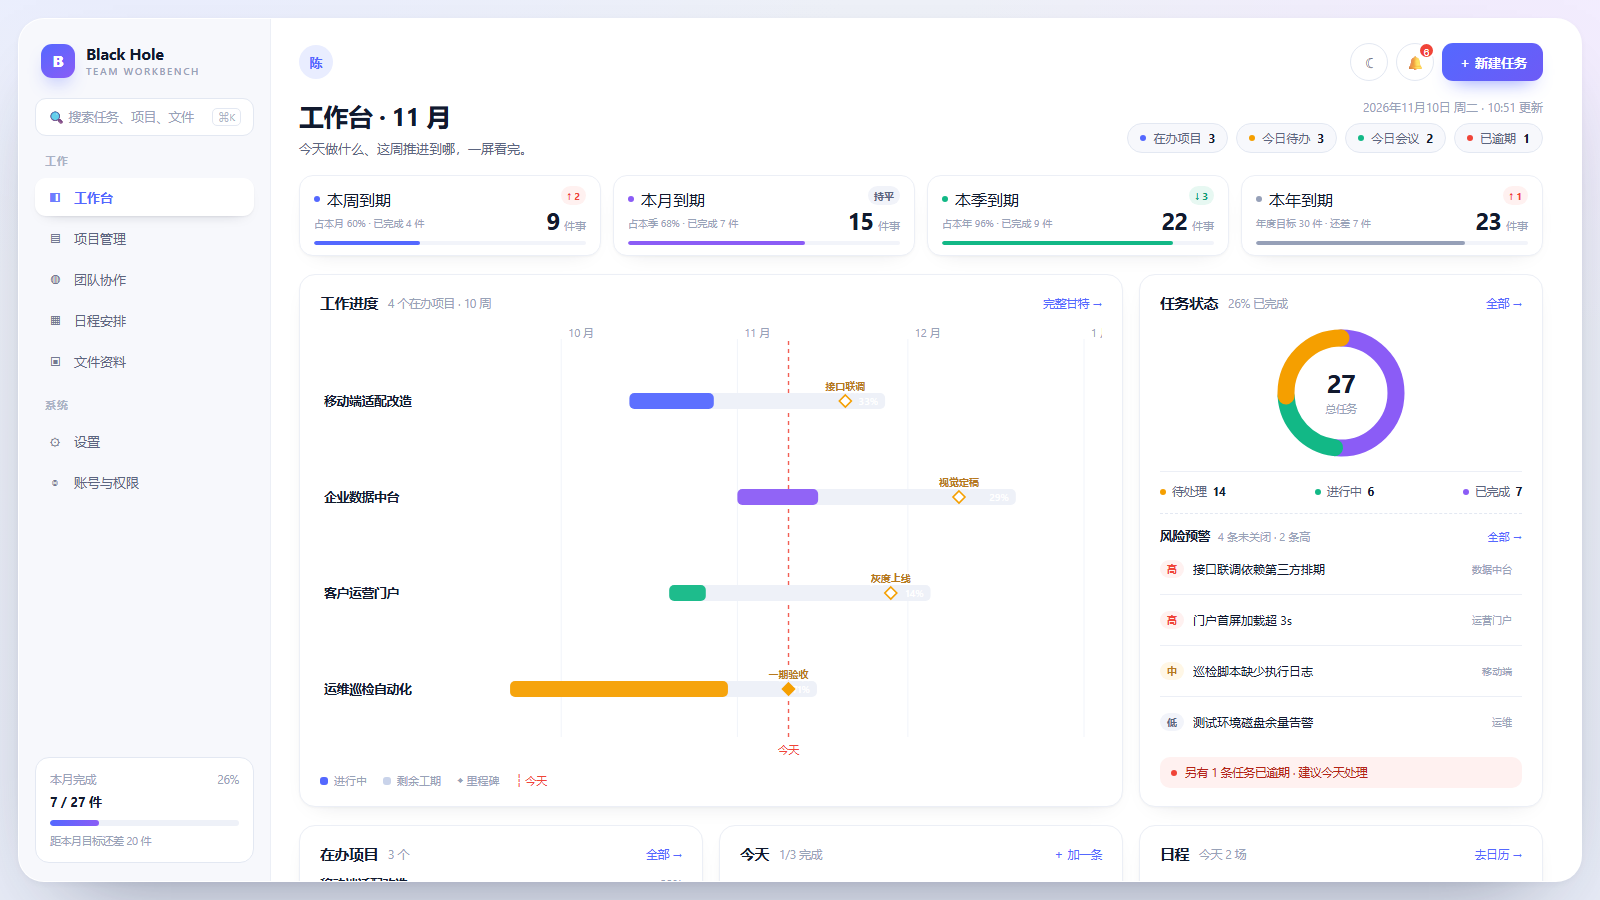
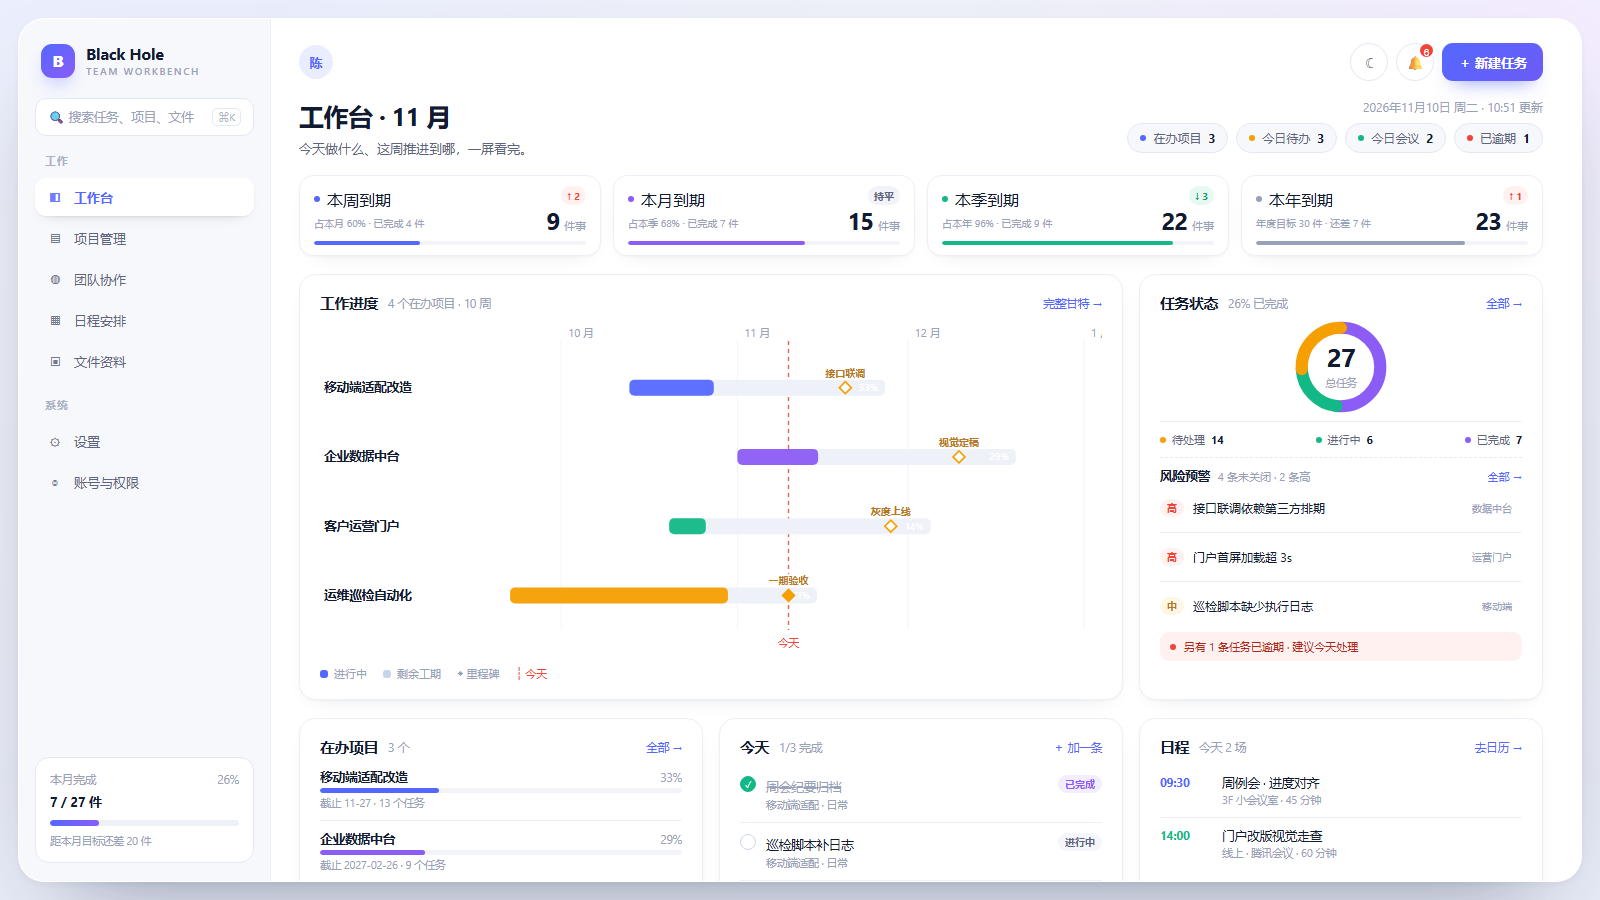
docs(demo): 回滚入口交换；甘特/状态两卡降高 20% 并加内滚动
- 回滚 0c0be93（四个胶囊移到标题下 + 随记/文件迁顶栏），恢复上一版布局
- 工作进度、任务状态两卡固定 426px（原 533，降 20%）
- 甘特：行高下限 66，4 行刚好放进可视区；容器 overflow-y:auto + hv-scroll，
  项目数变多时滚动，滚动条默认隐藏、hover 显示
- 风险预警：从状态卡整体滚动改为**风险列表自己滚**（max-height 140），
  环图缩到 100、间距收紧，其余内容不裁切
- 自检：gantt 333 不溢出（4 行完整+图例可见）/ risk 140 溢出不裁切 / 两卡等高 426

diff --git a/docs/demo/workbench-demo.html b/docs/demo/workbench-demo.html
@@ -114,9 +114,11 @@
   .kpi-cell .hint{font-size:10px;color:var(--muted);line-height:1.35}
 
   /* 甘特图 */
-  .gantt-card{grid-column:span 8;display:flex;flex-direction:column}
-  .gantt{position:relative;margin-top:8px;flex:1;min-height:280px}
+  .gantt-card{grid-column:span 8;display:flex;flex-direction:column;height:426px}
+  .gantt{position:relative;margin-top:8px;flex:1;min-height:0}
   .gantt svg{display:block;width:100%}
+  .status-body{flex:1;min-height:0;display:flex;flex-direction:column}
+  .status-body > *{flex:0 0 auto}
   .gantt .tip{position:absolute;pointer-events:none;background:#111a2e;color:#fff;padding:7px 10px;border-radius:9px;font-size:11px;
     transform:translate(-50%,-125%);opacity:0;transition:opacity .12s;white-space:nowrap;box-shadow:0 10px 24px -10px rgba(17,26,46,.6)}
   .gantt-legend{display:flex;align-items:center;gap:16px;margin-top:10px;font-size:11px;color:var(--muted)}
@@ -124,19 +126,19 @@
   .gantt-legend i{width:8px;height:8px;border-radius:3px}
 
   /* 任务状态 + 风险 */
-  .status-card{grid-column:span 4;display:flex;flex-direction:column}
-  .donut{position:relative;display:grid;place-items:center;margin:8px 0 2px}
+  .status-card{grid-column:span 4;display:flex;flex-direction:column;height:426px}
+  .donut{position:relative;display:grid;place-items:center;margin:2px 0 0}
   .donut .center{position:absolute;text-align:center}
   .donut .center b{display:block;font-size:26px;font-weight:760;line-height:1;letter-spacing:-.8px}
   .donut .center span{font-size:10.5px;color:var(--muted)}
-  .lg{display:flex;justify-content:space-between;padding-top:12px;border-top:1px solid var(--line);margin-top:6px}
-  .lg div{display:flex;align-items:center;gap:6px;font-size:11.5px;color:var(--text-2)}
+  .lg{display:flex;justify-content:space-between;padding-top:10px;border-top:1px solid var(--line);margin-top:4px}
+  .lg div{display:flex;align-items:center;gap:6px;font-size:11px;color:var(--text-2)}
   .lg b{color:var(--text);font-weight:700}
-  .subsec{display:flex;align-items:center;gap:8px;margin:14px 0 0;padding-top:14px;border-top:1px dashed var(--line-2)}
+  .subsec{display:flex;align-items:center;gap:8px;margin:10px 0 0;padding-top:10px;border-top:1px dashed var(--line-2)}
   .subsec h4{margin:0;font-size:12.5px;font-weight:700}
   .subsec .cnt{font-size:11px;color:var(--muted)}
   .subsec .more{margin-left:auto;font-size:11px;color:var(--brand);text-decoration:none}
-  .rm{display:grid;grid-template-columns:auto minmax(0,1fr) auto;gap:9px;align-items:center;padding:8px 0}
+  .rm{display:grid;grid-template-columns:auto minmax(0,1fr) auto;gap:9px;align-items:center;padding:7px 0}
   .rm + .rm{border-top:1px solid var(--line)}
   .lv{font-size:10px;padding:2px 7px;border-radius:99px;font-weight:700}
   .lv.h{background:var(--red-soft);color:var(--red)}
@@ -144,7 +146,7 @@
   .lv.l{background:#f2f4fa;color:var(--text-2)}
   .rm .tt{font-size:12px;overflow:hidden;text-overflow:ellipsis;white-space:nowrap}
   .rm .pj{font-size:10px;color:var(--muted);white-space:nowrap}
-  .warn-strip{display:flex;align-items:center;gap:8px;margin-top:10px;padding:8px 11px;border-radius:10px;background:var(--red-soft);font-size:11.5px;color:#b42318}
+  .warn-strip{display:flex;align-items:center;gap:8px;margin-top:8px;padding:7px 10px;border-radius:9px;background:var(--red-soft);font-size:11px;color:#b42318}
 
   /* 在办项目（含随记/文件入口） */
   .proj-card{grid-column:span 4;display:flex;flex-direction:column}
@@ -372,7 +374,7 @@
           <h3>工作进度</h3><span class="sub">4 个在办项目 · 10 周</span>
           <a class="more" href="#">完整甘特 →</a>
         </div>
-        <div class="gantt" id="ganttBox">
+        <div class="gantt hv-scroll" id="ganttBox">
           <div class="tip" id="gtip">—</div>
           <svg id="gantt" width="100%" height="258"></svg>
         </div>
@@ -386,8 +388,9 @@
 
       <div class="card status-card">
         <div class="card-h"><h3>任务状态</h3><span class="sub">26% 已完成</span><a class="more" href="#">全部 →</a></div>
+        <div class="status-body">
         <div class="donut">
-          <svg width="140" height="140" viewBox="0 0 140 140">
+          <svg width="100" height="100" viewBox="0 0 140 140">
             <circle cx="70" cy="70" r="55" fill="none" stroke="#f2f4fa" stroke-width="17"/>
             <circle cx="70" cy="70" r="55" fill="none" stroke="#8b5cf6" stroke-width="17" stroke-linecap="round"
                     stroke-dasharray="179 345.6" stroke-dashoffset="0" transform="rotate(-90 70 70)"/>
@@ -404,13 +407,14 @@
           <div><i class="sp" style="background:#8b5cf6"></i>已完成 <b>7</b></div>
         </div>
         <div class="subsec"><h4>风险预警</h4><span class="cnt">4 条未关闭 · 2 条高</span><a class="more" href="#">全部 →</a></div>
-        <div class="risk-mini hv-scroll">
+        <div class="risk-mini hv-scroll" style="max-height:140px">
           <div class="rm"><span class="lv h">高</span><span class="tt">接口联调依赖第三方排期</span><span class="pj">数据中台</span></div>
           <div class="rm"><span class="lv h">高</span><span class="tt">门户首屏加载超 3s</span><span class="pj">运营门户</span></div>
           <div class="rm"><span class="lv m">中</span><span class="tt">巡检脚本缺少执行日志</span><span class="pj">移动端</span></div>
           <div class="rm"><span class="lv l">低</span><span class="tt">测试环境磁盘余量告警</span><span class="pj">运维</span></div>
         </div>
         <div class="warn-strip"><i class="sp" style="background:#f04438"></i>另有 1 条任务已逾期 · 建议今天处理</div>
+        </div>
       </div>
     </section>
 
@@ -537,8 +541,10 @@
 
   function render() {
     const W = Math.max(560, box.clientWidth);
-    const H = Math.max(240, box.clientHeight);
     const rows = projects.length;
+    // 行高不低于 64：容器压矮时宁可滚动，也不把 4 行压成一条
+    const minH = TOP + rows * 66 + BOTTOM;
+    const H = Math.max(minH, box.clientHeight);
     const rowH = (H - TOP - BOTTOM) / rows;
     const X = t => LEFT + ((t - minT) / span) * (W - LEFT - RIGHT);
 
